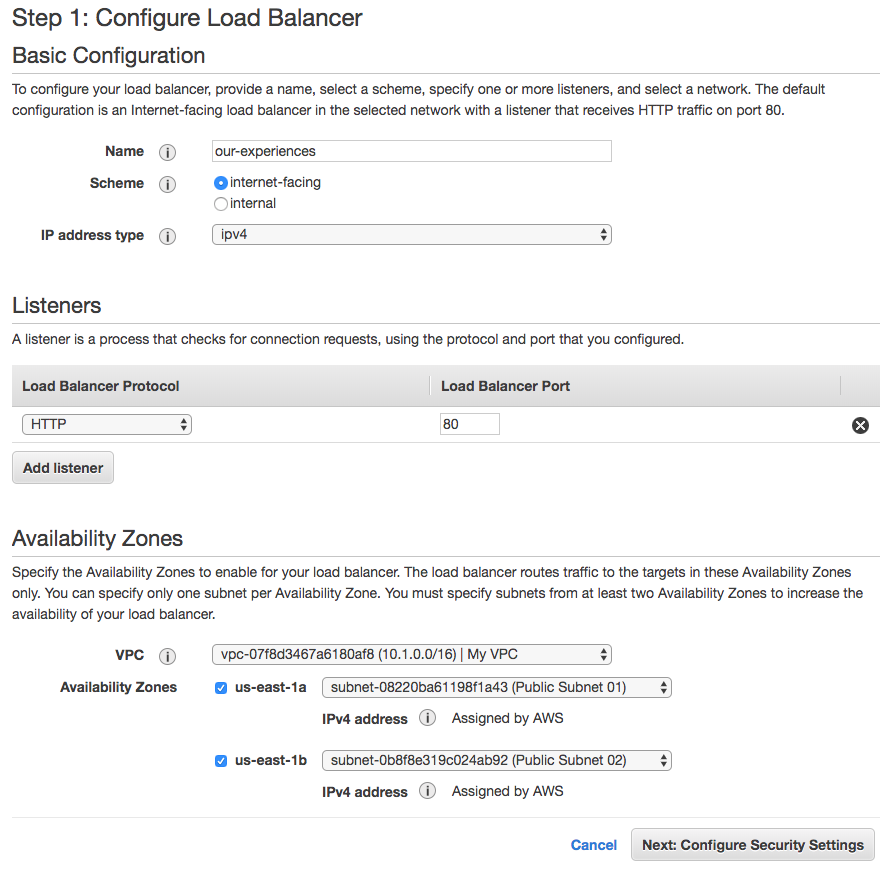
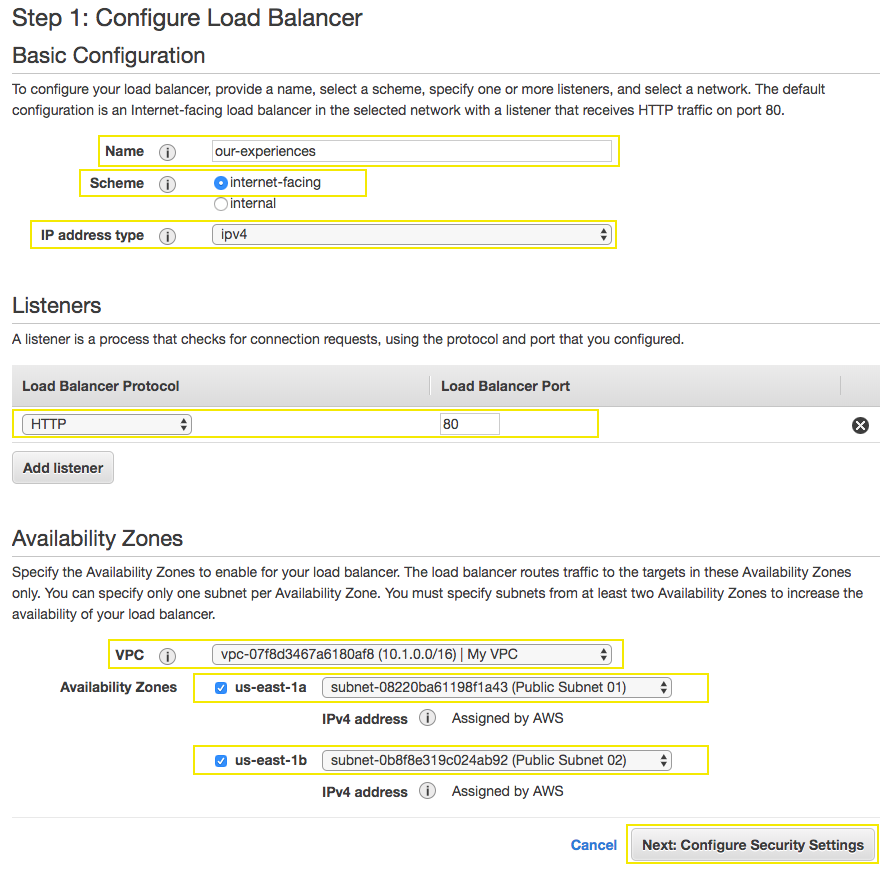
VPC Wizard

diff --git a/tutorials/ApplicationLoadBalancer.md b/tutorials/ApplicationLoadBalancer.md
@@ -12,17 +12,17 @@
 
 1.5\. Complete the **Configure Load Balancer** page as follows:
 
-  a\. For **Name**, type `our-experiences` for your load balancer.
+•	**Name:** `our-experiences`
 
-  b\. For **Scheme**, use an internet-facing load balancer routes requests from clients over the internet to targets.
+•	**Scheme:** `internet-facing`.
 
-  c\. For **IP address type**, choose ipv4 to support IPv4 addresses only or dualstack to support both IPv4 and IPv6 addresses.
+•	**IP address type:** `ipv4`.
 
-  d\. For **Listeners**, the default is a listener that accepts HTTP traffic on port 80.
+•	**Listeners:** The default listener that accepts `HTTP` traffic on port `80`.
 
-  e\. For **VPC**, select the `My VPC`.
+•	**VPC** `My VPC`.
 
-  f\. For **Availability Zones**, select the check box for the Availability Zones to enable for your load balancer. For us-east-1a select the **Public Subnet 01** and for us-east-1b select **Public Subnet 02**.
+•	**Availability Zones:** Select the check box for the Availability Zones to enable for your load balancer. For **us-east-1a** select the **Public Subnet 01** and for **us-east-1b** select **Public Subnet 02**.
 
 ![Configure Load Balancer](../images/alb.png)
 
